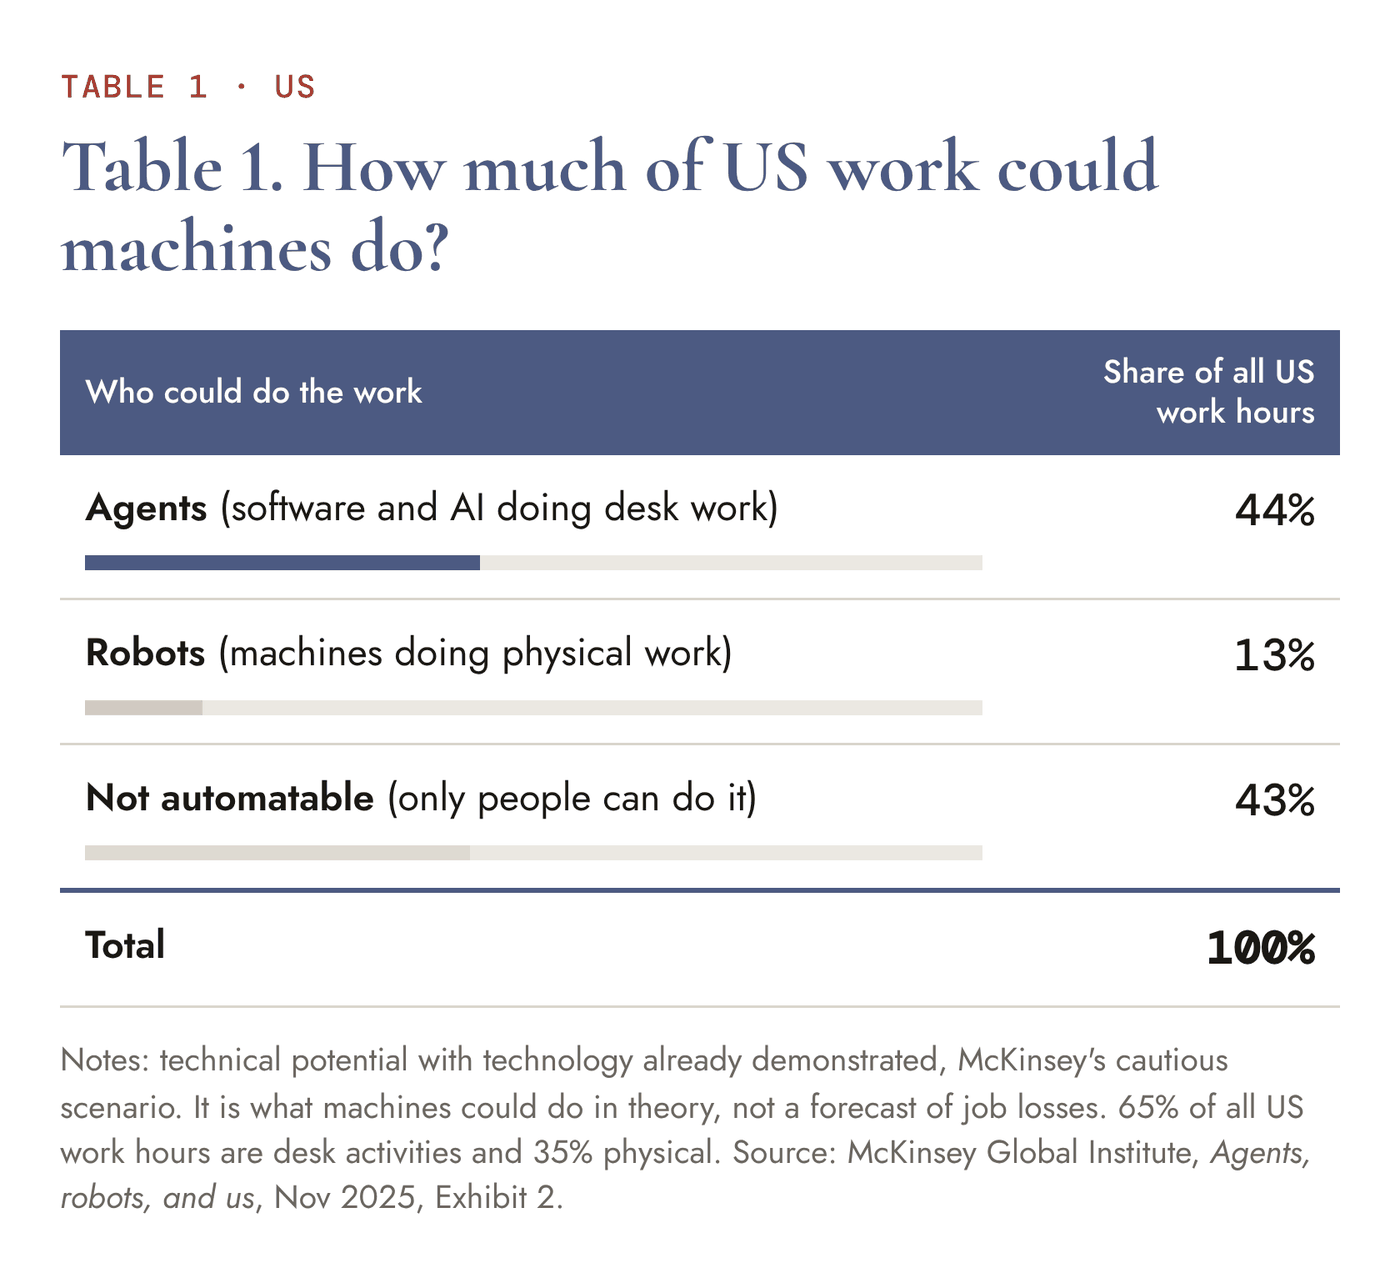
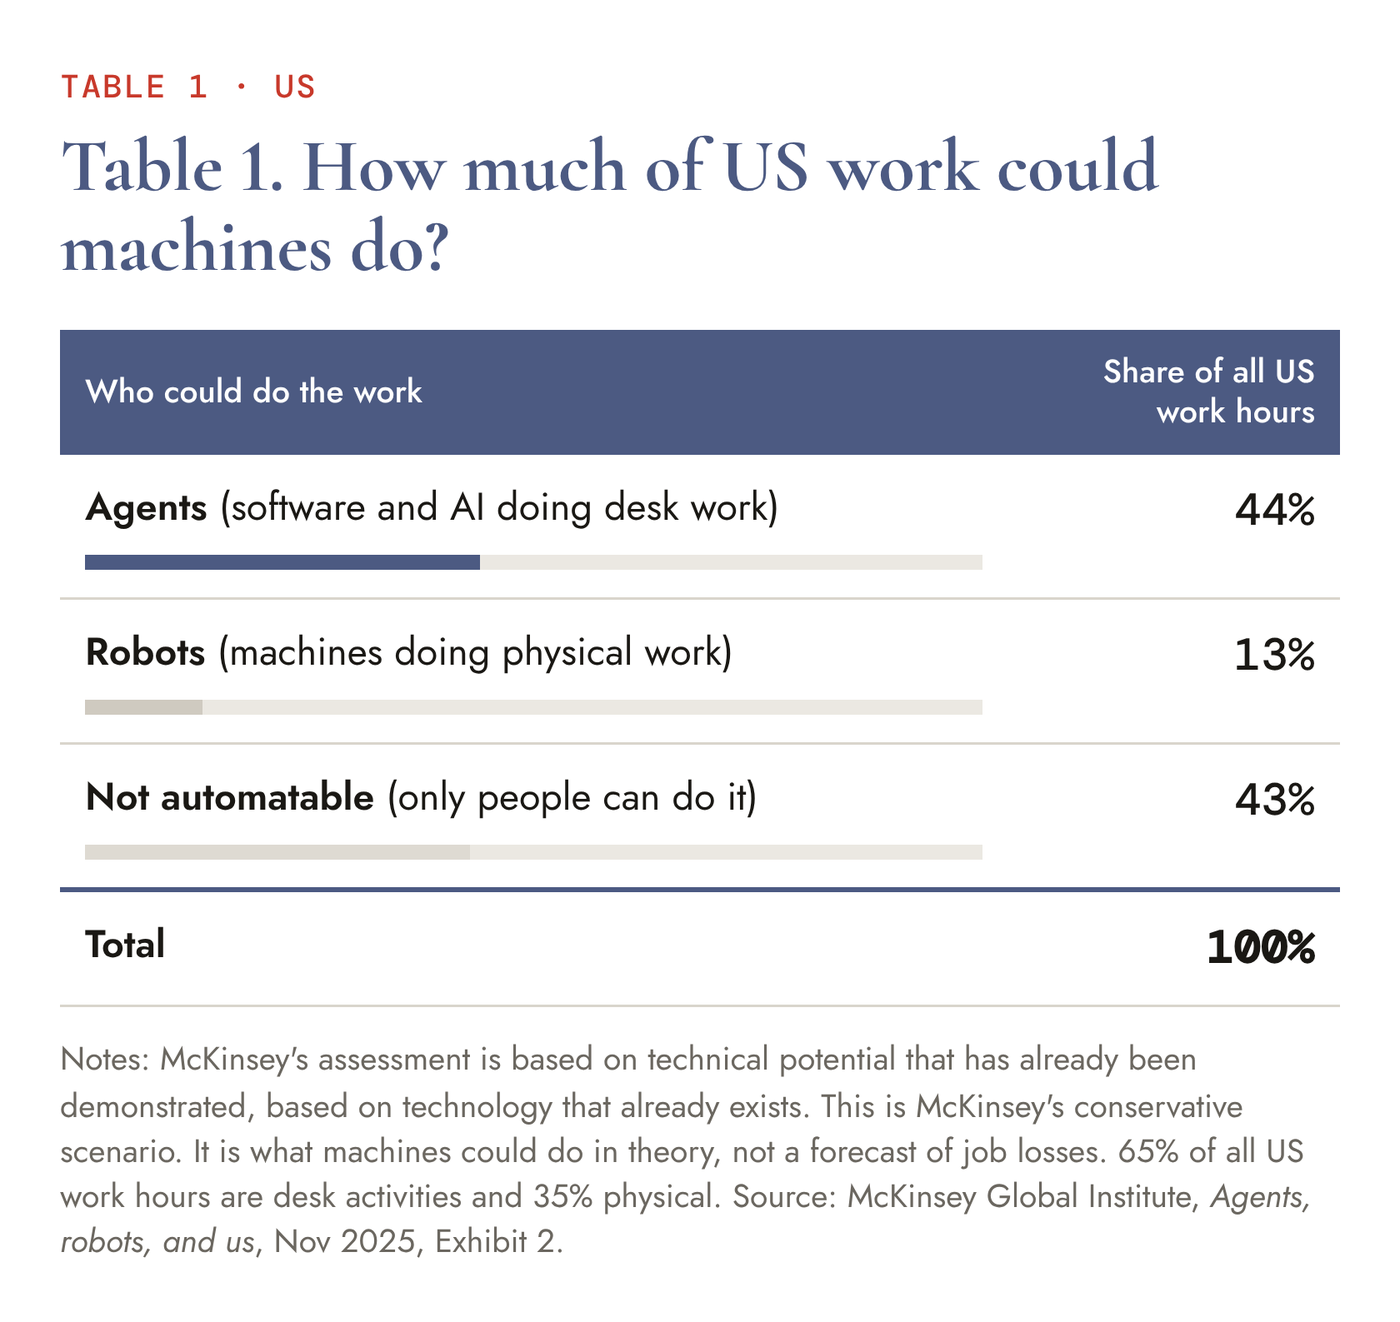
Intelligence — October 2026: refresh — Ren's two sentence edits (11:49); Tables 1–2 revised; new graphics -07 (#1 Paradox) and -06 (#4 lever); og/meta description = dek only (Ren 12:05)

diff --git a/intelligence-october-2026.html b/intelligence-october-2026.html
@@ -4,13 +4,13 @@
   <meta charset="UTF-8" />
   <meta name="viewport" content="width=device-width, initial-scale=1.0" />
   <title>Intelligence — October 2026 — rrealpath</title>
-  <meta name="description" content="Analysis of AI Adoption — What the headline numbers don’t reveal. Measured by how much of the work AI could do that it actually does, we are, in fact, in the Early Adopter stage." />
+  <meta name="description" content="Analysis of AI Adoption — What the headline numbers don’t reveal" />
   <meta name="author" content="René Anant Feddersen" />
   <meta property="article:published_time" content="2026-10-28T09:00:00+07:00" />
   <meta property="og:type" content="article" />
   <meta property="og:site_name" content="rrealpath" />
   <meta property="og:title" content="Intelligence — October 2026: Analysis of AI Adoption — What the headline numbers don’t reveal" />
-  <meta property="og:description" content="Analysis of AI Adoption — What the headline numbers don’t reveal. Measured by how much of the work AI could do that it actually does, we are, in fact, in the Early Adopter stage." />
+  <meta property="og:description" content="Analysis of AI Adoption — What the headline numbers don’t reveal" />
   <meta property="og:url" content="https://rrealpath.com/intelligence-october-2026" />
   <meta property="og:image" content="https://rrealpath.com/images/intelligence-october-2026-og.png" />
   <meta property="og:image:width" content="1200" />
@@ -19,7 +19,7 @@
   <meta name="twitter:card" content="summary_large_image" />
   <meta name="twitter:image" content="https://rrealpath.com/images/intelligence-october-2026-og.png" />
   <meta name="twitter:title" content="Intelligence — October 2026: Analysis of AI Adoption — What the headline numbers don’t reveal" />
-  <meta name="twitter:description" content="Analysis of AI Adoption — What the headline numbers don’t reveal. Measured by how much of the work AI could do that it actually does, we are, in fact, in the Early Adopter stage." />
+  <meta name="twitter:description" content="Analysis of AI Adoption — What the headline numbers don’t reveal" />
   <link rel="canonical" href="https://rrealpath.com/intelligence-october-2026" />
   <link rel="icon" href="/favicon.ico" sizes="any" />
   <link rel="icon" href="/favicon-32.png" type="image/png" sizes="32x32" />
@@ -152,6 +152,11 @@
 
       <p>If we give credence to these two statements — both statements are grounded in fact — we can further state the following: The gap between how AI is named and how it functions creates a fundamental paradox: we discuss AI through the lens of substitution, but we experience it through the lens of augmentation.</p>
 
+      <figure class="article-figure">
+        <img src="images/intelligence-october-2026-07.png" width="1400" height="792" alt="Two panels. Left, “How we discuss AI — substitution”: a person equals a pixelated copy of the same person. Right, “How we experience AI — augmentation”: a small person stands in front of a giant pixelated figure whose head leaves the frame." loading="lazy" />
+        <figcaption class="article-lead-caption"><div class="article-lead-bar"></div><span class="article-lead-name">Paradox</span><span class="article-lead-credit">rrealpath original graphic</span></figcaption>
+      </figure>
+
       <p>Therefore:</p>
 
       <p>The way to gauge AI’s value is to start using it, and to experience augmentation in the context of one’s own work. There are no patterns or rules about how this is achieved, and there is no expert third party that will do this for us. Gathering examples through our own experience and learning from the experiences of others is the measure.</p>
@@ -187,10 +192,10 @@
 
       <p>To take Rogers’ analogy further, we need to understand the types of jobs that can make full use of AI as the best course of available action. Research that is focused on substitution (versus augmentation) is defining these jobs as AI-exposed. The next table shows the percentage of the US workforce for which AI’s assumed present &amp; future capabilities are a complement (augmentation) or match (substitution).</p>
 
-      <p><em>Agents, robots, and us</em> (McKinsey Global Institute, Nov 2025) estimates how much of today’s paid US work hours technology already demonstrated could, in theory, take over, by breaking about 800 occupations into their tasks. “Agents” means any software that automates desk work, AI included, and “robots” means machines that do physical work. In its cautious scenario, agents could do 44% of US work hours and robots 13%; the other 43% only people can do. McKinsey stresses that this is technical potential, “not a forecast of job losses”. It assumes about 27% of hours will be automated by 2030, and McKinsey sells AI consulting, so it has an interest in these findings.</p>
+      <p><em>Agents, robots, and us</em> (McKinsey Global Institute, Nov 2025) estimates how much of today’s paid US work hours technology could, in theory, take over, by breaking about 800 occupations into their tasks. “Agents” means any software that automates desk work, AI included, and “robots” means machines that do physical work. In its cautious scenario, agents could do 44% of US work hours and robots 13%; the other 43% only people can do. McKinsey stresses that this is technical potential, “not a forecast of job losses”. It assumes about 27% of hours will be automated by 2030, and McKinsey sells AI consulting, so it has an interest in these findings.</p>
 
       <figure class="article-figure">
-        <img src="images/intelligence-october-2026-03.png" width="1400" height="1278" alt="Table: share of all US work hours machines could do. Agents (software and AI doing desk work) 44%, robots 13%, not automatable 43%. Source: McKinsey Global Institute, Agents, robots, and us, Nov 2025." loading="lazy" />
+        <img src="images/intelligence-october-2026-03.png" width="1400" height="1322" alt="Table: share of all US work hours machines could do. Agents (software and AI doing desk work) 44%, robots 13%, not automatable 43%. Source: McKinsey Global Institute, Agents, robots, and us, Nov 2025." loading="lazy" />
         <figcaption class="article-lead-caption"><div class="article-lead-bar"></div><span class="article-lead-name">McKinsey’s estimate of how much work US agents, robots and humans can do in theory</span><span class="article-lead-credit">rrealpath original graphic</span></figcaption>
       </figure>
 
@@ -254,6 +259,11 @@
 
       <p>The less technical minds who are building solutions with AI (the Early Adopters) are working on basic agentic solutions. While these solutions include some aspects of harnesses, they are designed to augment the capabilities and workload of one individual, versus developing solutions that need to run predictably in commercial environments. For the Early Adopter, effort and diligence incrementally improve solutions that would otherwise be defeated by loss of context and hallucinations, and progress is characterised by setbacks.</p>
 
+      <figure class="article-figure">
+        <img src="images/intelligence-october-2026-06.png" width="1400" height="1235" alt="A lever with “AI” as its fulcrum. On the long arm, three small tags — domain experience, specificity / articulation, effort / iteration — fall or rest on the beam; on the short arm stands a large red silhouette of Michelangelo’s David, the product they lift." loading="lazy" />
+        <figcaption class="article-lead-caption"><div class="article-lead-bar"></div><span class="article-lead-name">Translating human intent into analytical leverage</span><span class="article-lead-credit">rrealpath original graphic</span></figcaption>
+      </figure>
+
       <p>Below is an example of an improvised agentic structure, developed by an Early Adopter for publishing researched articles. Each function presents distinct challenges. Any individual wishing to publish researched articles begins from a different vantage point and with a different set of native skills. The strength of LLMs is their versatility in developing the desired utility from a unique starting point, progressing in learned and practised stages to a unique end point.</p>
 
       <ul>
@@ -271,7 +281,7 @@
 
       <p>What Early Adopters are demonstrating is AI’s value as a conversational interface, translating prompts into analytical leverage and accelerating the iterative rate of progress. Its power lies in its ability to serve a broad audience by bringing together start and end points that were previously termed a bridge too far.</p>
 
-      <p>What the noise fails to communicate is that the baseline advantage is augmentation. Anyone has access to this leverage and can improve something through the use of LLMs. What it further fails to communicate is that expert domain experience is necessary; an LLM’s leverage may make a project more forgiving to a novice, but complex solutions require seasoned human architects.</p>
+      <p>What the noise fails to communicate is that the baseline advantage is augmentation. Anyone has access to this leverage and can improve something through the use of LLMs. What it further fails to communicate is that expert domain experience is the major differentiating factor in building great solutions and systems; an LLM’s leverage may make a project more forgiving to a novice, but complex solutions require seasoned human architects to execute. Again, AI doesn’t substitute knowledge &amp; talent, it augments it.</p>
 
       <p>AI is not the answer, it is the tool that enables a human to work on his answer. The difficulty in discussing AI adoption stems from using the language of identity to describe a tool of leverage. Until our public and organisational rhetoric shifts from what AI resembles (human intelligence) to what AI provides (leverage), people and institutions will continue to struggle with integrating it effectively.</p>
 
